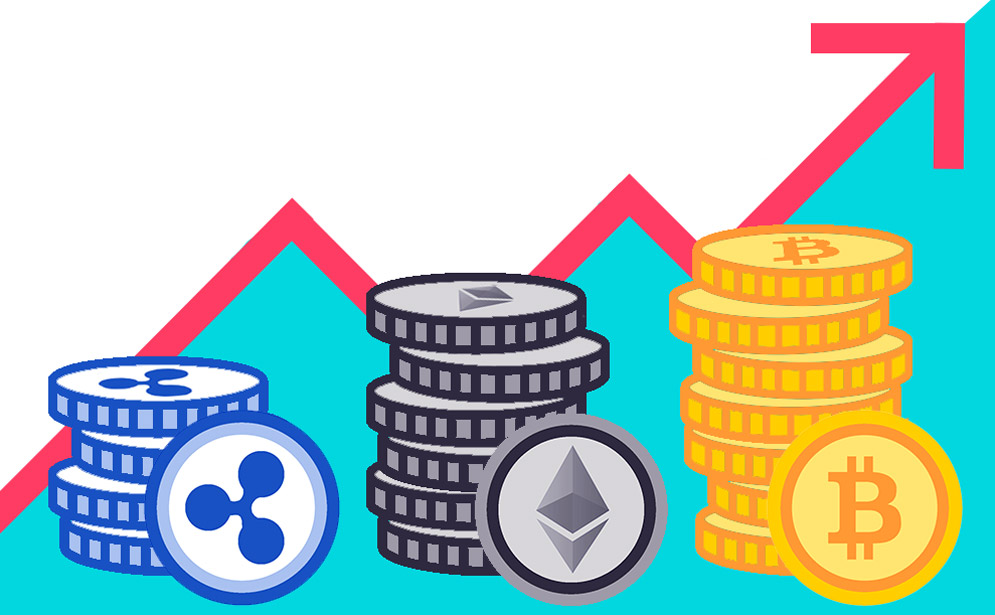
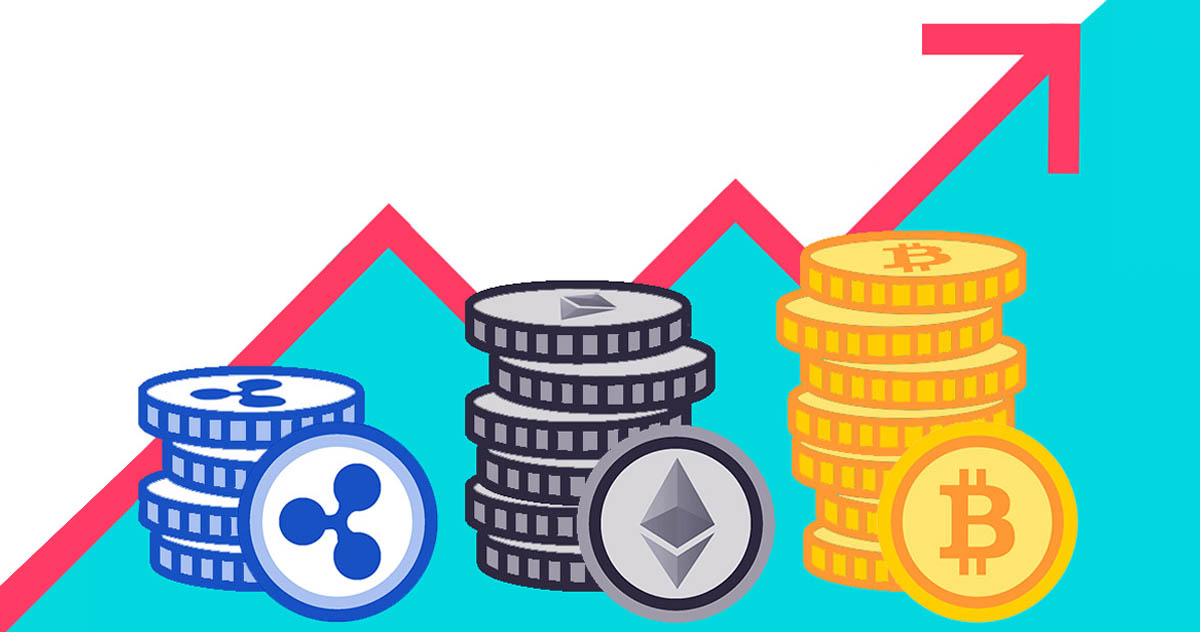
resized images

diff --git a/index.html b/index.html
@@ -7,101 +7,108 @@
 
     <!-- Bootstrap CSS -->
     <link href="https://cdn.jsdelivr.net/npm/bootstrap@5.1.3/dist/css/bootstrap.min.css" rel="stylesheet" integrity="sha384-1BmE4kWBq78iYhFldvKuhfTAU6auU8tT94WrHftjDbrCEXSU1oBoqyl2QvZ6jIW3" crossorigin="anonymous">
+    <!-- fonts -->
     <script src="https://kit.fontawesome.com/7e22566b8c.js" crossorigin="anonymous"></script>
     <link rel="stylesheet" href="https://cdnjs.cloudflare.com/ajax/libs/font-awesome/4.7.0/css/font-awesome.min.css">
     <link rel="preconnect" href="https://fonts.googleapis.com">
-<link rel="preconnect" href="https://fonts.gstatic.com" crossorigin>
-<link href="https://fonts.googleapis.com/css2?family=Gideon+Roman&display=swap" rel="stylesheet">
+    <link rel="preconnect" href="https://fonts.gstatic.com" crossorigin>
+    <!-- styles -->
     <link rel="stylesheet" href="./CSS/styles.css">
     <title>Why to invest in crypto!</title>
   </head>
   <body>
-    <!-- NAVbar -->
-<nav class="navbar navbar-expand-xxl navbar-light bg-transparent">
-  <div class="container-fluid">
-      <a class="navbar-brand fst-bold text-light" href="#"><strong>Invest in Crypto</strong>
-      </a>
-        <button class="navbar-toggler rounded-circle" type="button" data-bs-toggle="collapse" data-bs-target="#navbarNavAltMarkup" aria-controls="navbarNavAltMarkup" aria-expanded="false" aria-label="Toggle navigation">
-              <span class="navbar-toggler-icon">
-              </span>
-        </button>
-          <div class="collapse navbar-collapse justify-content-end" id="navbarNavAltMarkup">
-            <div class="navbar-nav">
-              <a class="nav-link bg-gradient" href="#Why Invest"><strong>Why invest</strong>
-              </a>
-              <a class="nav-link About" href="#Contact"><strong>Contact</strong>
-              </a>
-  
+  <!-- Navbar Start -->
+  <div class="row">
+    <div class="col">
+      <nav class="navbar navbar-expand-lg navbar-light bg-light">
+        <div class="container-fluid d-flex justify-content-between">
+          <a class="navbar-brand " href="#"><strong>Invest in Crypto</strong></a>
+          <button class="navbar-toggler rounded-circle" type="button" data-bs-toggle="collapse" data-bs-target="#navbarNav" aria-controls="navbarNav" aria-expanded="false" aria-label="Toggle navigation">
+            <span class="navbar-toggler-icon"></span>
+          </button>
+          <div class="collapse navbar-collapse justify-content-end" id="navbarNav">
+            <ul class="navbar-nav">
+              <li class="nav-item">
+                <a class="nav-link active" aria-current="page" href="#">Why invest</a>
+              </li>
+              <li class="nav-item">
+                <a class="nav-link" href="#">Contact</a>
+              </li>
+            </ul>
+          </div>
+        </div>
+      </nav>
     </div>
   </div>
-</nav>
 <!-- End of Navbar -->
-    <h1 class="title text-center">Don't leave your money on fiat currency, invest now</h1>
-<!-- Carousel -->
-<div class="row">
-  <div class="col d-flex justify-content-center">
-    <div id="carouselExampleCaptions" class="carousel slide carousel-dark" data-bs-ride="carousel">
-      <div class="carousel-indicators">
-        <button type="button" data-bs-target="#carouselExampleCaptions" data-bs-slide-to="0" class="active" aria-current="true" aria-label="Slide 1"></button>
-        <button type="button" data-bs-target="#carouselExampleCaptions" data-bs-slide-to="1" aria-label="Slide 2"></button>
-        <button type="button" data-bs-target="#carouselExampleCaptions" data-bs-slide-to="2" aria-label="Slide 3"></button>
-      </div>
-      <div class="carousel-inner">
-        <div class="carousel-item active">
-          <img src="./IMG/Investing-in-Cryptocurrency.jpg" class="d-block w-75" alt="...">
-          <div class="carousel-caption d-none d-md-block">
-            <h5>Reliable</h5>
-            <p>New coins like AMP promise a more secure way of purchasing that would be instant and cost effective.</p>
-          </div>
-        </div>
-        <div class="carousel-item">
-          <img src="./IMG/investing-in-cryptocurrencies-2.jpg" class="d-block w-75" alt="...">
-          <div class="carousel-caption d-none d-md-block">
-            <h5>Earning Rewards</h5>
-            <p>Some coins may offer up to 20% APR on UST.</p>
-          </div>
-        </div>
-        <div class="carousel-item">
-          <img src="./IMG/mco-visa-card-midnight-blue-536x440.jpg" class="d-block w-75" alt="...">
-          <div class="carousel-caption d-none d-md-block">
-            <h5>Cash Back</h5>
-            <p>Crypto.com offers a visa that earns up tp 8% back on spending with no annual fees.</p>
-          </div>
-        </div>
-      </div>
-      <button class="carousel-control-prev" type="button" data-bs-target="#carouselExampleCaptions" data-bs-slide="prev">
-        <span class="carousel-control-prev-icon" aria-hidden="true"></span>
-        <span class="visually-hidden">Previous</span>
-      </button>
-      <button class="carousel-control-next" type="button" data-bs-target="#carouselExampleCaptions" data-bs-slide="next">
-        <span class="carousel-control-next-icon" aria-hidden="true"></span>
-        <span class="visually-hidden">Next</span>
-      </button>
+  <div class="row p-4">
+    <div class="col">
+      <h1 class="title text-center">Don't leave your money on fiat currency, invest now</h1>
+
     </div>
   </div>
-</div>
-<div class="row p-5"> 
-  <div class="col">
-    <h1> Content goes here
-
-    </h1>
+<!-- Carousel Start-->
+  <div class="row">
+    <div class="col">
+      <div id="carouselExampleCaptions" class="carousel slide" data-bs-ride="carousel">
+        <div class="carousel-indicators">
+          <button type="button" data-bs-target="#carouselExampleCaptions" data-bs-slide-to="0" class="active" aria-current="true" aria-label="Slide 1"></button>
+          <button type="button" data-bs-target="#carouselExampleCaptions" data-bs-slide-to="1" aria-label="Slide 2"></button>
+          <button type="button" data-bs-target="#carouselExampleCaptions" data-bs-slide-to="2" aria-label="Slide 3"></button>
+        </div>
+        <div class="carousel-inner">
+          <div class="carousel-item active">
+            <img src="./IMG/Investing-in-Cryptocurrency.jpg" class="d-block w-100" alt="...">
+            <div class="carousel-caption d-md-block bg-dark p-4">
+              <h5>Reliable</h5>
+              <p>New coins like AMP promise a more secure way of purchasing that would be instant and cost effective.</p>  
+            </div>
+          </div>
+          <div class="carousel-item">
+            <img src="./IMG/investing-in-cryptocurrencies-2.jpg" class="d-block w-100" alt="...">
+            <div class="carousel-caption d-md-block bg-dark p-4">
+              <h5>Earning Rewards</h5>
+              <p>Some coins may offer up to 20% APR on UST.</p>
+            </div>
+          </div>
+          <div class="carousel-item">
+            <img src="./IMG/mco-visa-card-midnight-blue-536x440.jpg" class="d-block w-100" alt="...">
+            <div class="carousel-caption d-md-block bg-dark p-4">
+              <h5>Cash Back</h5>
+              <p>Crypto.com offers a visa that earns up tp 8% back on spending with no annual fees.</p>
+            </div>
+          </div>
+        </div>
+        <button class="carousel-control-prev" type="button" data-bs-target="#carouselExampleCaptions" data-bs-slide="prev">
+          <span class="carousel-control-prev-icon" aria-hidden="true"></span>
+          <span class="visually-hidden">Previous</span>
+        </button>
+        <button class="carousel-control-next" type="button" data-bs-target="#carouselExampleCaptions" data-bs-slide="next">
+          <span class="carousel-control-next-icon" aria-hidden="true"></span>
+          <span class="visually-hidden">Next</span>
+        </button>
+      </div>
+    </div>
   </div>
-</div>
-<div class="row parallax"> 
-  <div class="col">
-   </div>
-</div>
-    <footer>
+  <div class="row p-5"> 
+    <div class="col">
+      <h1> Content goes here</h1>
+    </div>
+  </div>
+  <div class="row parallax"> 
+    <div class="col"></div>
+  </div>
+  <div class="row">
+    <div class="col">
       <h1>Contact</h1>
       <i class="fa fa-instagram"></i>
       <i class="fa fa-twitter-square"></i>
       <i class="fa fa-facebook-square"></i>
       <i class="fa fa-twitch"></i>
-    </footer>
-        <!-- Optional JavaScript; choose one of the two! -->
-    
-        <!-- Option 1: Bootstrap Bundle with Popper -->
-        <script src="https://cdn.jsdelivr.net/npm/bootstrap@5.1.3/dist/js/bootstrap.bundle.min.js" integrity="sha384-ka7Sk0Gln4gmtz2MlQnikT1wXgYsOg+OMhuP+IlRH9sENBO0LRn5q+8nbTov4+1p" crossorigin="anonymous"></script>
-    
+    </div>
+  </div>
+ 
+  <!-- Option 1: Bootstrap Bundle with Popper -->
+  <script src="https://cdn.jsdelivr.net/npm/bootstrap@5.1.3/dist/js/bootstrap.bundle.min.js" integrity="sha384-ka7Sk0Gln4gmtz2MlQnikT1wXgYsOg+OMhuP+IlRH9sENBO0LRn5q+8nbTov4+1p" crossorigin="anonymous"></script>  
   </body>     
 </html>

diff --git a/CSS/styles.css b/CSS/styles.css
@@ -11,6 +11,6 @@
      background-attachment: fixed;
 }
 .carousel-inner {
-    height: 500px;
-    background-size: cover ;
+    background-size: cover;
+    object-fit: contain;
 }
